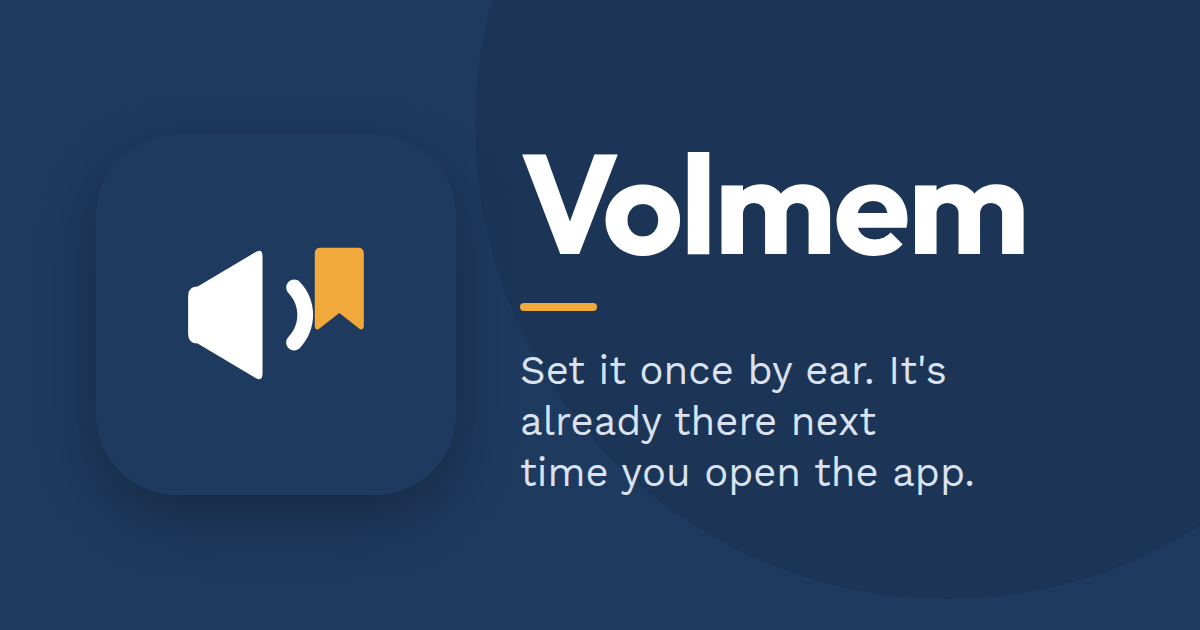
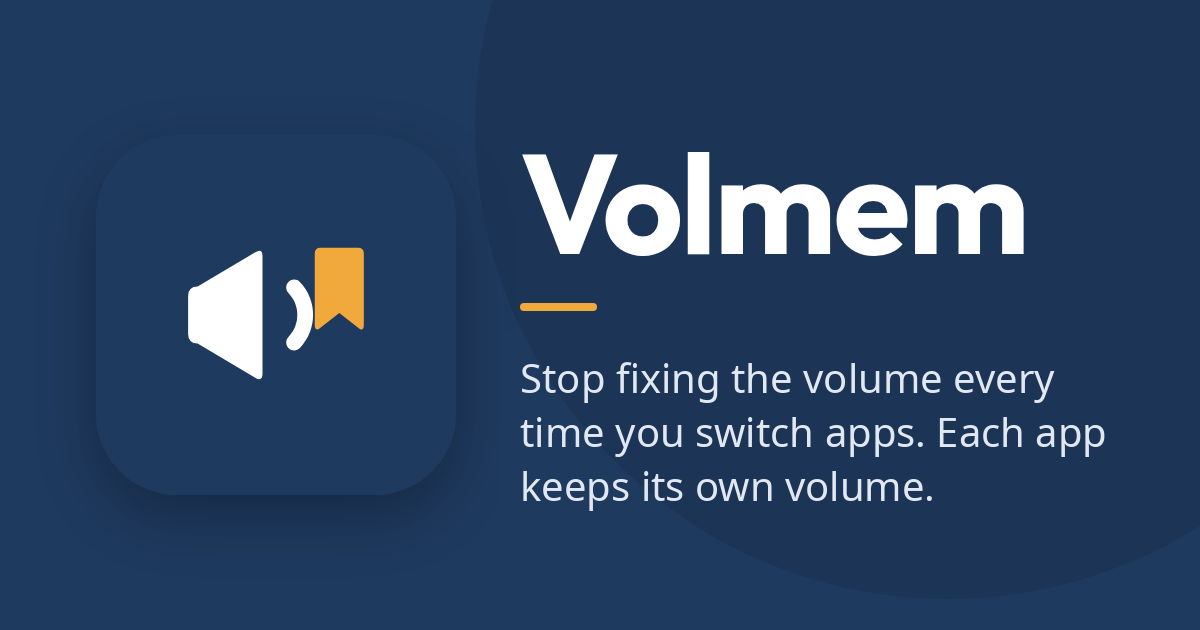
Plain-language rewrite and regrouped page
Hero says what Volmem does in everyday words. How it works is three
steps with a picture each. Extra bits, can/cannot (with honest switch
speed and locked-phone behavior), a permissions map pointing at each
switch with what it is never used for, simpler pricing. No links to
other apps.

Changed region(s): [[0.4317, 0.573, 0.925, 0.8143]]

diff --git a/index.html b/index.html
@@ -4,13 +4,13 @@
 <meta charset="utf-8">
 <meta name="viewport" content="width=device-width, initial-scale=1">
 <title>Volmem – Volume Memory</title>
-<meta name="description" content="Volmem remembers the volume you set for each Android app and puts it back when that app plays or opens. The app that's playing keeps its volume while you use others. No internet permission, no ads, $4.99 once.">
+<meta name="description" content="Volmem lets you set and save a separate volume for each app on your Android phone, so apps like Spotify and Audible no longer need adjusting every time you switch between them. No ads, no subscription, not connected to the internet.">
 <link rel="canonical" href="https://volmem.rickymcdaniel.net/">
 <meta name="theme-color" content="#1F3A5F">
 <meta property="og:type" content="website">
 <meta property="og:site_name" content="Volmem">
 <meta property="og:title" content="Volmem – Volume Memory">
-<meta property="og:description" content="Set each app's volume once. Volmem puts it back whenever that app plays or opens.">
+<meta property="og:description" content="Stop fixing the volume every time you switch apps. Set a separate volume for each app, once.">
 <meta property="og:url" content="https://volmem.rickymcdaniel.net/">
 <meta property="og:image" content="https://volmem.rickymcdaniel.net/assets/og-image.png">
 <meta property="og:image:width" content="1200">
@@ -31,7 +31,7 @@
     <a class="brand" href="/"><img src="assets/icon.svg" alt="" width="32" height="32">Volmem</a>
     <nav class="nav" aria-label="Page">
       <a href="#how">How it works</a>
-      <a href="#limits">Limits</a>
+      <a href="#limits">Can and can't</a>
       <a href="#pricing" class="hide-sm">Pricing</a>
       <a href="#faq" class="hide-sm">FAQ</a>
     </nav>
@@ -44,13 +44,13 @@
     <div>
       <img class="hero-icon" src="assets/icon.svg" alt="Volmem app icon" width="96" height="96">
       <h1><span class="app-title">Volmem</span></h1>
-      <p class="tagline">Set each app's volume once. It's there every time.</p>
-      <p class="lead">Audiobooks at 40. Music at 70. That one game at 20. Volmem puts each app's volume back whenever that app plays or comes to the screen. The app that's playing keeps its volume while you use other apps.</p>
+      <p class="tagline">Stop fixing the volume every time you switch apps.</p>
+      <p class="lead">Volmem lets you set and save a separate volume level for each app on your phone, so apps that share the same media volume, like Spotify and Audible, no longer need adjusting every time you switch between them.</p>
       <div class="cta-row">
         <a class="play-badge" href="https://play.google.com/store/apps/details?id=com.rickymcdaniel.volmem"><img src="assets/google-play-badge.png" alt="Get it on Google Play" width="646" height="250"></a>
         <a class="btn btn-ghost" href="#limits">What it can and cannot do</a>
       </div>
-      <p class="cta-note">Android 10 and newer · Free for 3 apps · $4.99 once to unlock everything · No ads, no subscription, no internet permission</p>
+      <p class="cta-note">Android 10 and newer · Free for 3 apps · $4.99 once to unlock everything · No ads, no subscription · Not connected to the internet, no data collected</p>
     </div>
     <figure class="hero-shot">
       <img src="assets/shot-main.webp" alt="Volmem's main screen: a list of apps, each with its own volume slider, and the Enable Volmem Control switch at the bottom" width="540" height="1170" fetchpriority="high">
@@ -61,43 +61,41 @@
 <section id="how">
   <div class="wrap">
     <p class="eyebrow">How it works</p>
-    <h2>Add your apps. Set them once.</h2>
-    <ol class="steps">
-      <li><h3>Turn it on.</h3><p>Flip "Enable Volmem Control". Volmem takes you straight to the two Android settings it needs, then turns on by itself.</p></li>
-      <li><h3>Tap + and pick your apps.</h3><p>Each app gets a slider. Set it there, or use the volume keys while the app is playing.</p></li>
-      <li><h3>That's it.</h3><p>Whenever an app on your list plays or opens, its volume comes back. Everything else keeps your normal volume.</p></li>
-    </ol>
-    <div class="shots">
-      <figure class="shot">
-        <img src="assets/shot-app.webp" alt="An app's page: its volume slider, a separate volume per Bluetooth device, and Plays during Do Not Disturb" width="540" height="1170" loading="lazy">
-        <figcaption>A separate volume per Bluetooth headset, speaker or car.</figcaption>
-      </figure>
-      <figure class="shot">
+    <h2>Add your apps. Set their independent volumes.</h2>
+    <ol class="steps steps-pics">
+      <li>
+        <h3>Enable permissions.</h3>
+        <p>Volmem needs certain permissions so that it can do its job. <a href="#permissions">What each permission allows us to do.</a></p>
+        <img src="assets/shot-settings.webp" alt="Volmem's settings with Usage access, Notification access and Nearby devices switched on" width="540" height="1170" loading="lazy">
+      </li>
+      <li>
+        <h3>Add your apps.</h3>
+        <p>Choose all the apps you want Volmem to remember a volume for.</p>
         <img src="assets/shot-add.webp" alt="The + list: pick an installed app to add" width="540" height="1170" loading="lazy">
-        <figcaption>Tap + and pick an app. Done.</figcaption>
-      </figure>
-      <figure class="shot">
-        <img src="assets/shot-settings.webp" alt="Settings: Usage access, Notification access, Nearby devices, Mute during Do Not Disturb" width="540" height="1170" loading="lazy">
-        <figcaption>Each permission is one switch that goes straight to the right Android setting.</figcaption>
-      </figure>
-    </div>
+      </li>
+      <li>
+        <h3>Set your independent volumes.</h3>
+        <p>For each app, choose the volume you like.</p>
+        <img src="assets/shot-app.webp" alt="An app's page: its volume slider and a separate volume for each Bluetooth device" width="540" height="1170" loading="lazy">
+      </li>
+    </ol>
   </div>
 </section>
 
 <section id="features">
   <div class="wrap">
     <p class="eyebrow">Also</p>
-    <h2>The small things that make it work</h2>
+    <h2>The fun extra bits</h2>
     <div class="grid grid-2">
       <div class="card">
         <div class="ico"><svg viewBox="0 0 24 24"><path d="M3 9v6h4l5 5V4L7 9H3zm13.5 3A4.5 4.5 0 0 0 14 8v8a4.5 4.5 0 0 0 2.5-4zM14 3.2v2.1a7 7 0 0 1 0 13.4v2.1a9 9 0 0 0 0-17.6z"/></svg></div>
-        <h3>The playing app keeps its volume.</h3>
-        <p>Music in the background stays at the music's volume while you scroll, read or text. When nothing plays, the app on screen decides.</p>
+        <h3>Switching apps is no problem.</h3>
+        <p>Volmem changes the volume for each app as soon as it comes to the screen, usually in under half a second.</p>
       </div>
       <div class="card">
         <div class="ico"><svg viewBox="0 0 24 24"><path d="M12 3a9 9 0 0 0-9 9v7a2 2 0 0 0 2 2h3v-8H5v-1a7 7 0 0 1 14 0v1h-3v8h3a2 2 0 0 0 2-2v-7a9 9 0 0 0-9-9z"/></svg></div>
-        <h3>Bluetooth devices.</h3>
-        <p>Give an app its own volume on each paired headset, speaker or car. The phone speaker keeps its own.</p>
+        <h3>Independent volumes for each app AND each Bluetooth device.</h3>
+        <p>For each Bluetooth device, you can choose a different app volume than on your phone speaker. Audible not loud enough in your car, but too loud on your headphones? No problem! Volmem's got you, fam.</p>
       </div>
       <div class="card">
         <div class="ico"><svg viewBox="0 0 24 24"><path d="M12 2a10 10 0 1 0 0 20 10 10 0 0 0 0-20zM4 12a8 8 0 0 1 12.9-6.3L5.7 16.9A7.9 7.9 0 0 1 4 12zm8 8a7.9 7.9 0 0 1-4.9-1.7L18.3 7.1A8 8 0 0 1 12 20z"/></svg></div>
@@ -105,9 +103,9 @@
         <p>Mute every app during Do Not Disturb except the ones you allow.</p>
       </div>
       <div class="card">
-        <div class="ico"><svg viewBox="0 0 24 24"><path d="M4 4h7v7H4zm9 0h7v7h-7zM4 13h7v7H4zm9 0h7v7h-7z"/></svg></div>
-        <h3>A Quick Settings tile.</h3>
-        <p>Turn Volmem on or off without opening it.</p>
+        <div class="ico"><svg viewBox="0 0 24 24" aria-hidden="true"><rect x="2.5" y="6" width="19" height="12" rx="2.5" fill="none" stroke="currentColor" stroke-width="2"/><path d="M7.2 15.2 9.1 8.8h1.4l1.9 6.4h-1.5l-.4-1.4H9.1l-.4 1.4H7.2zm2.2-2.6h1.3l-.65-2.3-.65 2.3zm3.9 2.6V8.8h2.2c1.9 0 3 1.2 3 3.2s-1.1 3.2-3 3.2h-2.2zm1.4-1.2h.8c1 0 1.6-.7 1.6-2s-.6-2-1.6-2h-.8v4z"/><path d="M4 3.5 20 20.5" fill="none" stroke="currentColor" stroke-width="2.2" stroke-linecap="round"/></svg></div>
+        <h3>Ads and subscriptions suck!!!</h3>
+        <p>Volmem will NEVER include ads as long as I own it, and the free version is no exception. The same goes for subscriptions. Pay me ONCE, and updates, improvements and bug fixes are included forever.</p>
       </div>
     </div>
   </div>
@@ -116,18 +114,50 @@
 <section id="limits">
   <div class="wrap wrap-narrow">
     <div class="callout">
-      <p class="eyebrow">Read this first</p>
-      <h2><svg viewBox="0 0 24 24" aria-hidden="true"><path d="M12 2 1 21h22L12 2zm0 6 6.5 11h-13L12 8zm-1 4v4h2v-4h-2zm0 5v2h2v-2h-2z"/></svg>What it can and cannot do</h2>
-      <p><strong>A memory, not a mixer.</strong> Android has one media volume for the whole phone. Volmem switches it for you. It can't play two apps at different volumes at the same time.</p>
+      <h2><svg viewBox="0 0 24 24" aria-hidden="true"><path d="M12 2 1 21h22L12 2zm0 6 6.5 11h-13L12 8zm-1 4v4h2v-4h-2zm0 5v2h2v-2h-2z"/></svg>What Volmem can and cannot do</h2>
+      <p><strong>Volume memory (Volmem), not volume mixing.</strong> Android has one media volume control for the whole phone. Volmem's job is to adjust that media volume automatically for the apps you set. It cannot give two apps different volumes while they play at the same time.</p>
       <ul>
         <li>Media volume only. Ring, notification, alarm and call volume are never touched.</li>
-        <li>The volume switches about a second after the app changes.</li>
-        <li>Nothing changes while the phone is locked.</li>
+        <li>The volume switches in under a second after you change apps, usually in under half a second.</li>
+        <li>While the phone is locked or the screen is off, the volume stays where you left it. If a different app starts playing while the phone is locked, Volmem switches its volume when you unlock.</li>
         <li>After a restart, one tap turns Volmem back on. Android requires that.</li>
         <li>Apps that don't report what they play (most games, videos in a social feed) follow the app on screen.</li>
         <li>Some TV boxes and car units have fixed volume. Volmem can't change it there.</li>
       </ul>
     </div>
+  </div>
+</section>
+
+<section id="permissions">
+  <div class="wrap">
+    <p class="eyebrow">Permissions</p>
+    <h2>What each permission allows us to do</h2>
+    <p class="lead">And what we never use it for.</p>
+    <figure class="perm-map">
+      <div class="perm-img">
+        <img src="assets/shot-permissions.webp" alt="Volmem's settings screen: Usage access, Notification access and Nearby devices switched on, and Show &quot;Volmem is on&quot;" width="540" height="780" loading="lazy">
+        <span class="perm-dot" style="--y:32.3" aria-hidden="true">1</span>
+        <span class="perm-dot" style="--y:43.6" aria-hidden="true">2</span>
+        <span class="perm-dot" style="--y:55.1" aria-hidden="true">3</span>
+        <span class="perm-dot" style="--y:93.3" aria-hidden="true">4</span>
+      </div>
+      <div class="perm-note left" style="--y:32.3">
+        <b><i>1</i>Usage access</b>
+        <span>Used to see which app is on your screen, so Volmem knows whose volume to use. Volmem never keeps a history of the apps you use, and never sends it anywhere.</span>
+      </div>
+      <div class="perm-note right" style="--y:43.6">
+        <b><i>2</i>Notification access</b>
+        <span>Used to see which app is playing, even when it's in the background. Volmem never reads your notifications or messages.</span>
+      </div>
+      <div class="perm-note left" style="--y:55.1">
+        <b><i>3</i>Nearby devices <small>(optional)</small></b>
+        <span>Used for Bluetooth control, to tell your headphones, speaker and car apart. Volmem never searches for, connects to or tracks any device.</span>
+      </div>
+      <div class="perm-note right" style="--y:93.3">
+        <b><i>4</i>Notifications</b>
+        <span>Lets Volmem show a small "Volmem is on" notice while it works in the background, which Android expects. Volmem never sends ads or any other notifications.</span>
+      </div>
+    </figure>
   </div>
 </section>
 
@@ -141,10 +171,10 @@
         <div class="amount">$0</div>
         <p class="muted">Three apps, forever.</p>
         <ul>
-          <li>Each app's volume, set once</li>
-          <li>The playing app keeps its volume</li>
+          <li>Independent app volume memory</li>
+          <li>Set the volume in Volmem or with your phone's volume buttons</li>
           <li>Mute during Do Not Disturb</li>
-          <li>Quick Settings tile</li>
+          <li>No ads!!!</li>
         </ul>
       </div>
       <div class="price featured">
@@ -154,7 +184,7 @@
         <ul>
           <li>Everything in Free</li>
           <li>Unlimited apps</li>
-          <li>A separate volume per Bluetooth device</li>
+          <li>Bluetooth control: a separate volume for each Bluetooth device</li>
         </ul>
       </div>
     </div>
@@ -176,20 +206,6 @@
   </div>
 </section>
 
-<section id="permissions">
-  <div class="wrap">
-    <p class="eyebrow">Permissions</p>
-    <h2>Permissions in plain words</h2>
-    <ul class="perms">
-      <li><b>Usage access</b><span>To see which app is on screen.</span></li>
-      <li><b>Notification access</b><span>To see which app is playing. No notifications are received or read.</span></li>
-      <li><b>Nearby devices</b><span>Optional. To tell your Bluetooth devices apart.</span></li>
-      <li><b>Notifications</b><span>"Volmem is on", and "Volmem stopped" after a restart.</span></li>
-      <li class="no"><b>Not requested</b><span>Internet, accessibility service, draw over other apps, Do Not Disturb access, storage, location, microphone.</span></li>
-    </ul>
-  </div>
-</section>
-
 <section class="center" id="download">
   <div class="wrap">
     <h2>Stop fixing the volume every time you switch apps</h2>
@@ -206,7 +222,6 @@
     <div>Made by <a href="https://rickymcdaniel.net/">Ricky McDaniel</a>, a mechanical engineer who tinkers with code. Google Play and the Google Play logo are trademarks of Google LLC.</div>
     <nav aria-label="Legal">
       <a href="https://rickymcdaniel.net/">rickymcdaniel.net</a>
-      <a href="https://pester.rickymcdaniel.net/">Pester</a>
       <a href="https://rickymcdaniel.net/privacy.html">Privacy</a>
       <a href="https://rickymcdaniel.net/terms.html">Terms</a>
       <a href="mailto:&#114;&#105;&#99;&#107;&#121;&#64;&#114;&#105;&#99;&#107;&#121;&#109;&#99;&#100;&#97;&#110;&#105;&#101;&#108;&#46;&#110;&#101;&#116;">&#114;&#105;&#99;&#107;&#121;&#64;&#114;&#105;&#99;&#107;&#121;&#109;&#99;&#100;&#97;&#110;&#105;&#101;&#108;&#46;&#110;&#101;&#116;</a>

diff --git a/assets/style.css b/assets/style.css
@@ -189,3 +189,36 @@ figure { margin: 0; }
 /* ---------- limits + shot ---------- */
 .limits-grid { display: grid; gap: 1.5rem; align-items: start; justify-items: center; }
 @media (min-width: 820px) { .limits-grid { grid-template-columns: 1fr 300px; justify-items: stretch; } .limits-shot { width: 100%; } }
+
+/* ---------- steps with a picture under each ---------- */
+.steps-pics li { display: flex; flex-direction: column; }
+.steps-pics li > img { margin: 1.1rem auto 0; width: min(100%, 230px); border-radius: 18px; box-shadow: 0 12px 34px rgba(0,0,0,.22); border: 1px solid var(--line); background: var(--surface); }
+.steps-pics li p { flex: 1 0 auto; }
+
+/* ---------- permissions map: the settings picture with a note pointing at each switch ---------- */
+.perm-map { position: relative; margin: 2rem auto 0; display: grid; gap: 1rem; justify-items: center; }
+.perm-img { position: relative; width: min(100%, 320px); }
+.perm-img img { border-radius: 20px; box-shadow: 0 16px 44px rgba(0,0,0,.25); border: 1px solid var(--line); }
+.perm-dot, .perm-note i { display: inline-grid; place-items: center; width: 26px; height: 26px; border-radius: 50%; background: var(--accent); color: #1A1300; font-weight: 800; font-size: .85rem; font-style: normal; }
+.perm-dot { position: absolute; left: -13px; top: calc(var(--y) * 1%); transform: translateY(-50%); box-shadow: 0 0 0 3px var(--bg); }
+.perm-note { background: var(--surface); border: 1px solid var(--line); border-radius: 14px; padding: .85rem 1rem; width: min(100%, 460px); }
+.perm-note b { display: flex; align-items: center; gap: .55rem; margin-bottom: .25rem; }
+.perm-note b small { font-weight: 600; color: var(--ink-2); }
+.perm-note span { color: var(--ink-2); font-size: var(--fs-0); line-height: 1.55; display: block; }
+
+@media (min-width: 900px) {
+  /* Notes sit beside the picture at the height of their switch, with a line pointing at it. */
+  .perm-map { --img: 340px; --gap: 44px; display: block; width: calc(var(--img) + 2 * (300px + var(--gap))); margin-bottom: 4rem; }
+  .perm-img { width: var(--img); margin: 0 auto; }
+  .perm-dot { display: none; }
+  .perm-note { position: absolute; width: 300px; top: calc(var(--y) * 1%); transform: translateY(-1.05rem); }
+  .perm-note.left { left: 0; }
+  .perm-note.right { right: 0; }
+  .perm-note::after { content: ""; position: absolute; top: 1.05rem; height: 2px; background: var(--accent); }
+  .perm-note::before { content: ""; position: absolute; top: calc(1.05rem - 4px); width: 10px; height: 10px; border-radius: 50%; background: var(--accent); box-shadow: 0 0 0 3px color-mix(in srgb, var(--accent) 30%, transparent); }
+  /* Left notes point at the switch's label; right notes point at the switch itself. */
+  .perm-note.left::after { left: 100%; width: calc(var(--gap) + 16px); }
+  .perm-note.left::before { left: calc(100% + var(--gap) + 16px - 5px); }
+  .perm-note.right::after { right: 100%; width: calc(var(--gap) + 30px); }
+  .perm-note.right::before { right: calc(100% + var(--gap) + 30px - 5px); }
+}
